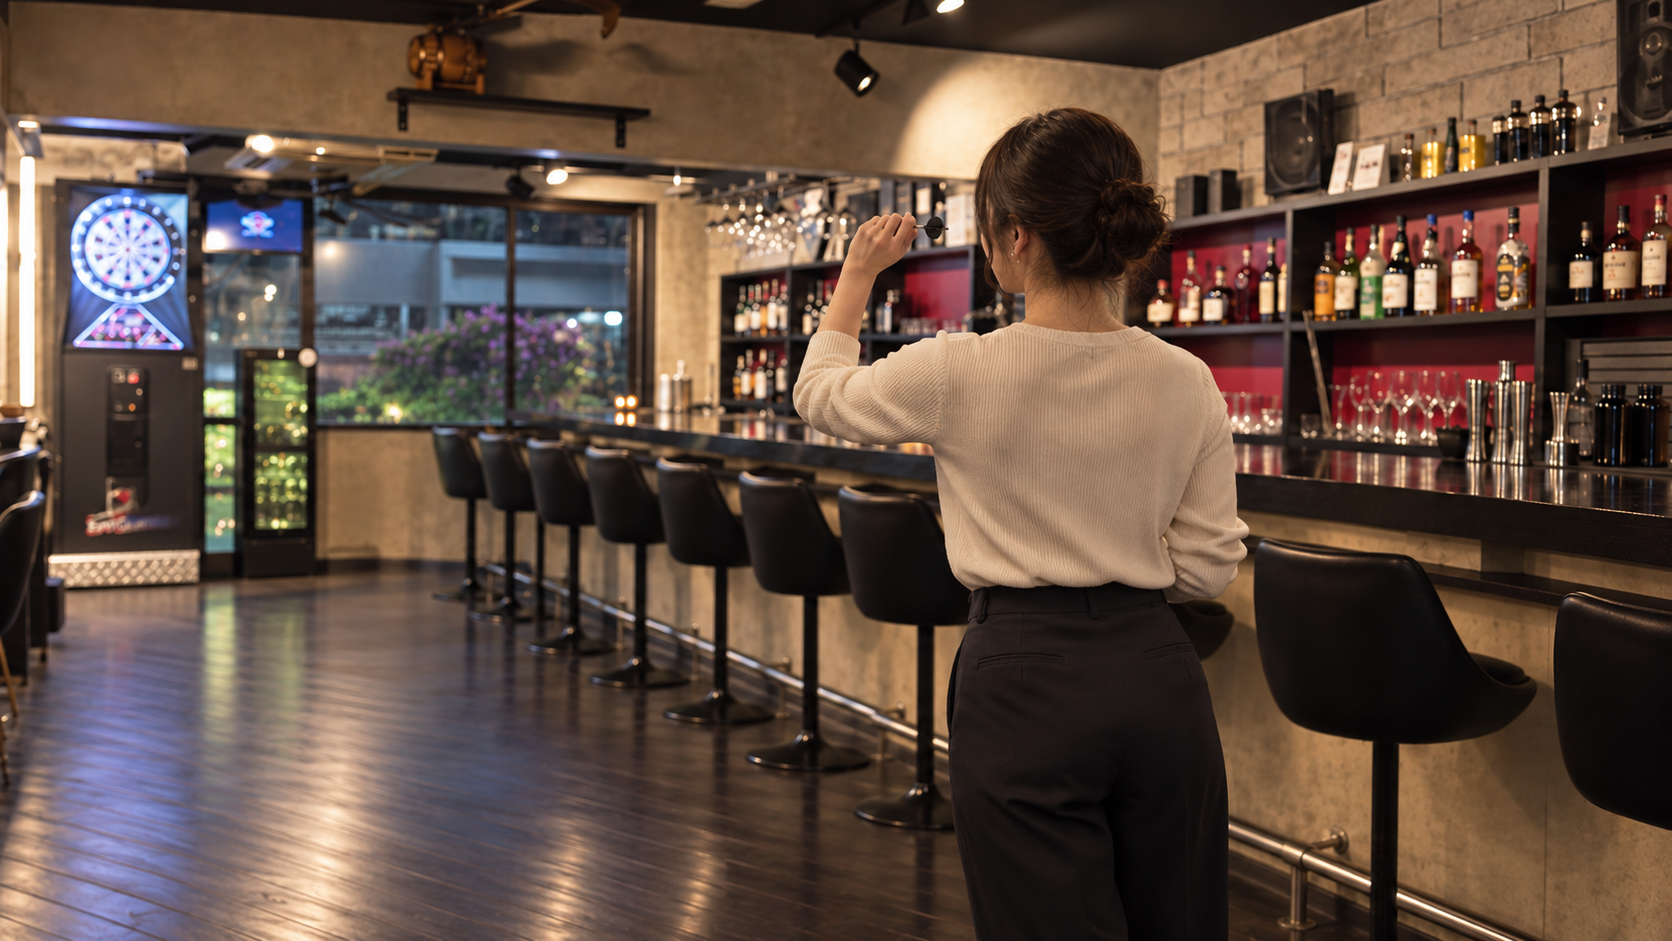
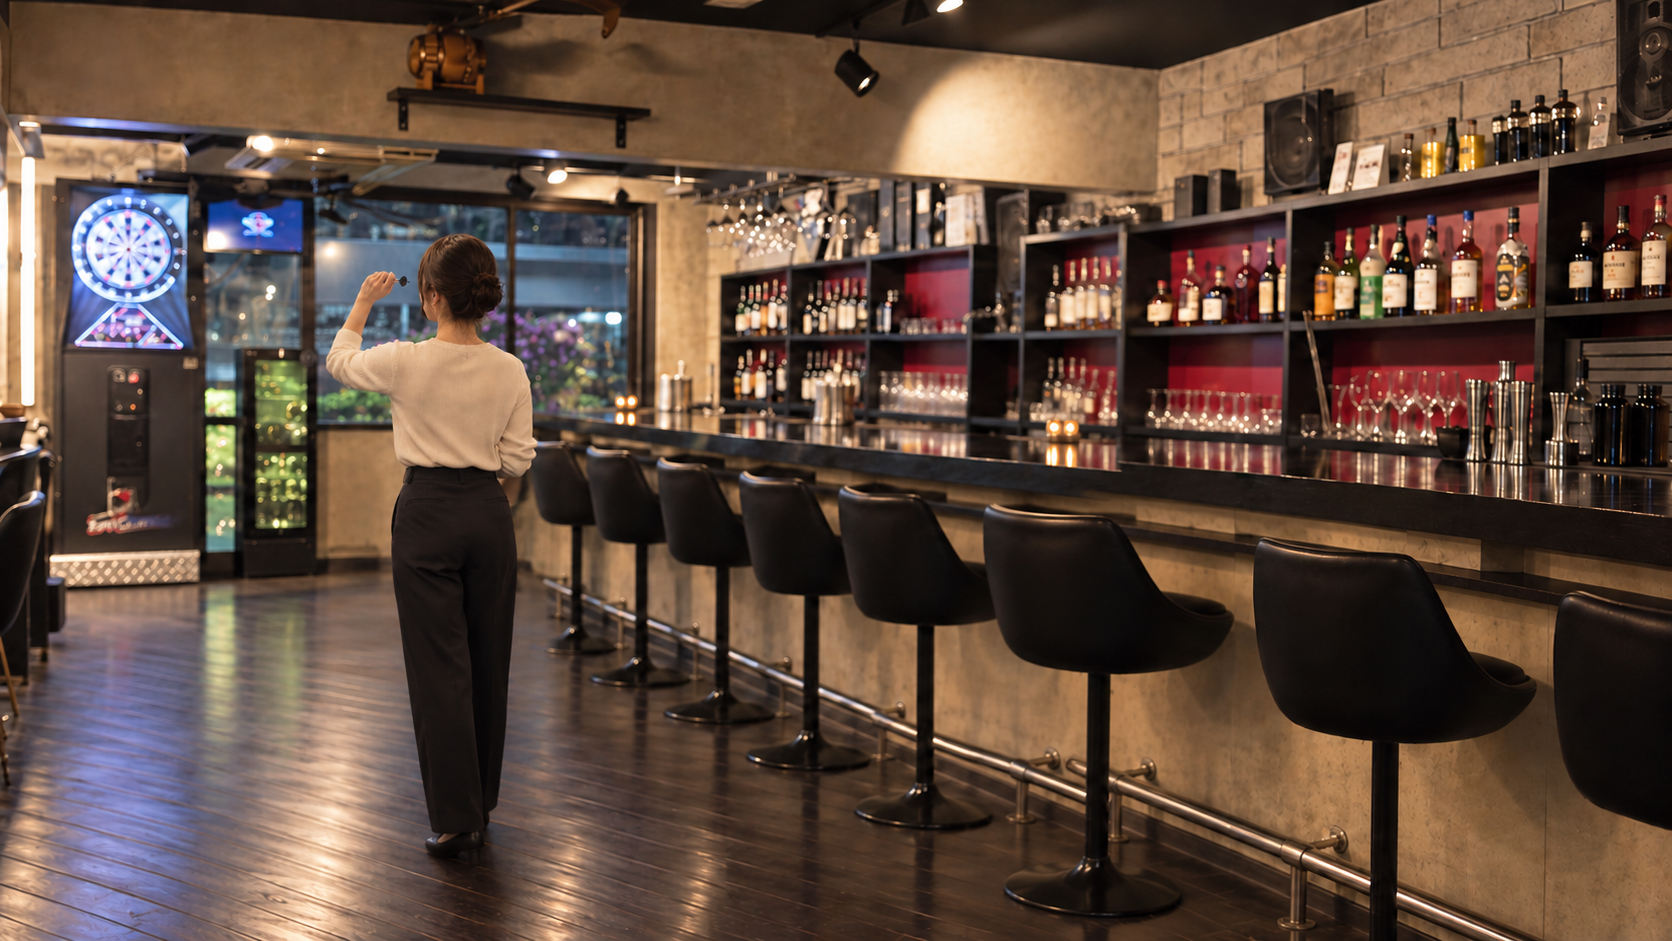
Move darts player closer to board in existing bar scene

diff --git a/index.html b/index.html
@@ -91,7 +91,7 @@
       <div class="section-heading"><h2 id="experience-title">夜の楽しみ方は、自由に。</h2><p>気分に合わせて、もうひとつの楽しみを。</p></div>
       <div class="leisure-list">
         <article class="leisure-row" aria-labelledby="darts-title">
-          <div class="leisure-visual"><img src="assets/images/darts-atmosphere.png?v=7af02dc6c788" width="1672" height="941" alt="街のバーで、髪をアップにした綺麗めカジュアルの大人の女性が後ろ向きに立ってダーツを投げる様子とダーツボードを描いたイメージ画像" loading="lazy" decoding="async"></div>
+          <div class="leisure-visual"><img src="assets/images/darts-atmosphere.png?v=c59aa412653b" width="1672" height="941" alt="街のバーで、髪をアップにした綺麗めカジュアルの大人の女性が後ろ向きに立ってダーツを投げる様子とダーツボードを描いたイメージ画像" loading="lazy" decoding="async"></div>
           <div class="leisure-content">
             <p class="leisure-label">01 / PLAY</p>
             <h3 id="darts-title"><span>DARTS /</span> ダーツ</h3>
